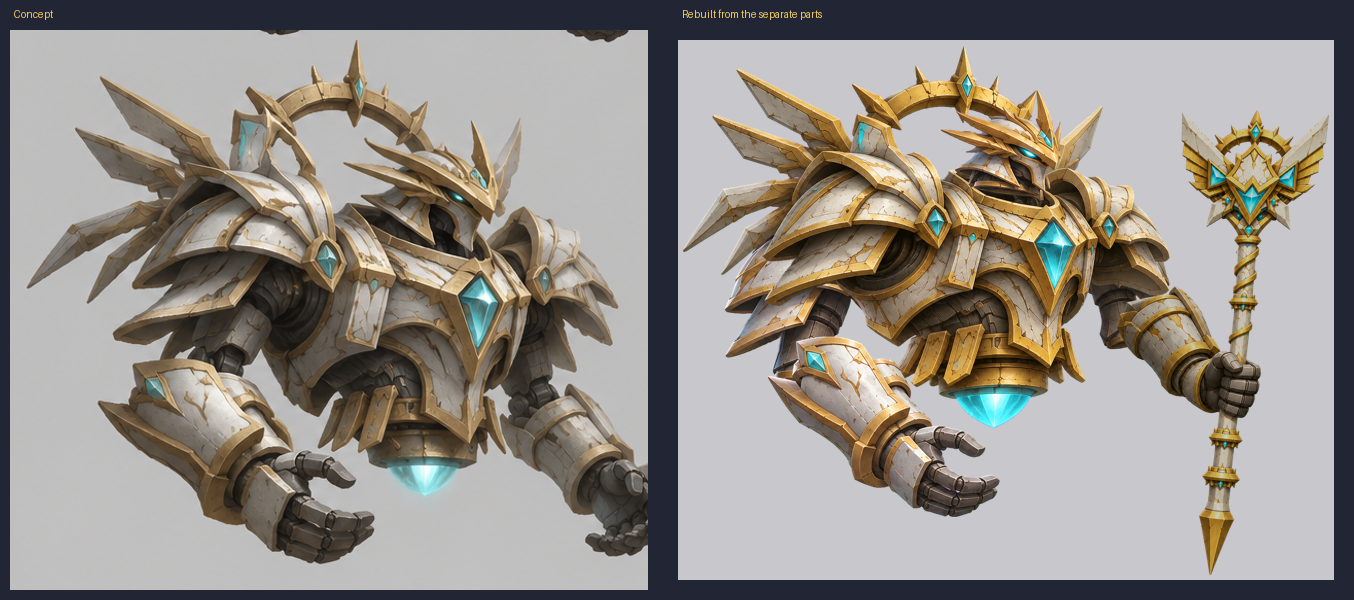
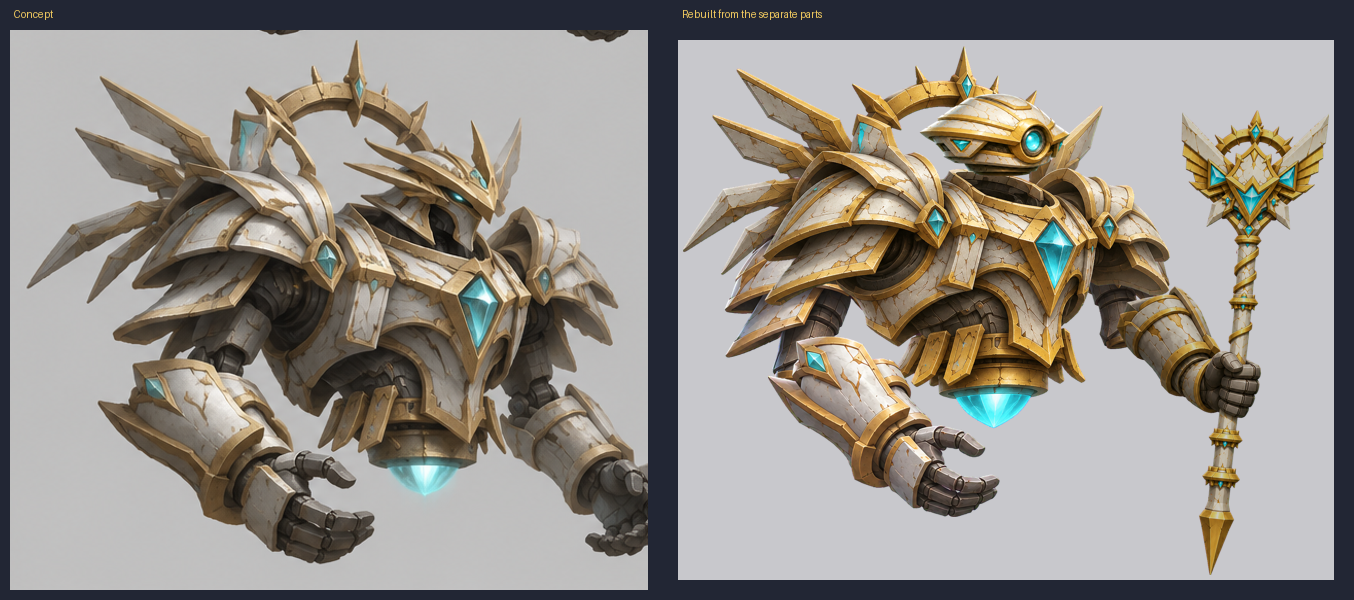
Mecha: final head (round flat dome, one centre eye, fin removed)
Claude-Session: https://claude.ai/code/session_01JamU3DGA95eo1q8PxeEFBV

Changed region(s): [[0.6824, 0.15, 0.8065, 0.33]]

diff --git a/dev/mecha/assemble_mecha2.py b/dev/mecha/assemble_mecha2.py
@@ -14,14 +14,14 @@ def key(a):
 S = key(np.asarray(Image.open(D + "mecha_parts_v2.png").convert("RGB")))
 ST = key(np.asarray(Image.open(D + "mecha_staff_v1.png").convert("RGB")))
 SA = key(np.asarray(Image.open(D + "mecha_staffarm_v1.png").convert("RGB")))   # v6: forearm + fist + staff as one piece (staff drawn into the real hand)
-HD = key(np.asarray(Image.open(D + "mecha_heads_v2.png").convert("RGB")))   # v8 head options: round flat dome, one centre eye (Harley: less humanoid)
+HD = key(np.asarray(Image.open(D + "mecha_head_final.png").convert("RGB")))   # v9 head: Harley's pick (round flat dome, one centre eye, no fin)
 ST2 = key(np.asarray(Image.open(D + "mecha_staff_v2.png").convert("RGB")))   # v5 staff: longer, fist low, 3/4 fist   # staff + fist, far gauntlet (no hand)
 T2 = key(np.asarray(Image.open(D + "mecha_torso_v2.png").convert("RGB")))   # v3 torso (Harley: bigger, huge shoulders like the concept)
 # boxes and anchor points (sheet px)
 P = {"torso": (401, 254, 1131, 938), "head": (706, 17, 963, 244), "nUp": (47, 262, 339, 617), "nFo": (34, 644, 423, 947), "fUp": (1224, 315, 1428, 616), "fFo": (1225, 655, 1452, 936)}
 A = {"neck": (848, 492), "shN": (612, 636), "shF": (1062, 596), "headB": (838, 236),
      "nUp_sh": (232, 385), "nUp_el": (195, 600), "nFo_el": (98, 690), "fUp_sh": (1318, 400), "fUp_el": (1322, 602), "fFo_el": (1268, 698)}
-C = {"head2": None, "h2W": 205, "h2Dy": 22, "staffArm": 1, "saS": 0.6, "saAnchor": [232, 700], "saDx": 8, "saDy": -6, "staff": 1, "gRot": -70, "gS": 0.78, "stS": 0.82, "stRot": 0, "torso2": 1, "ts": 0.74, "gapHead2": -10, "gapHead": -34, "gapEl": [10, -36], "foScale": 1.15, "far": 0.85, "farDark": 0.8, "rotNUp": 0, "rotNFo": 0, "rotFUp": 0, "rotFFo": 0}
+C = {"head2": [408, 329, 1124, 721], "h2W": 290, "h2Dy": -22, "staffArm": 1, "saS": 0.6, "saAnchor": [232, 700], "saDx": 8, "saDy": -6, "staff": 1, "gRot": -70, "gS": 0.78, "stS": 0.82, "stRot": 0, "torso2": 1, "ts": 0.74, "gapHead2": -10, "gapHead": -34, "gapEl": [10, -36], "foScale": 1.15, "far": 0.85, "farDark": 0.8, "rotNUp": 0, "rotNFo": 0, "rotFUp": 0, "rotFFo": 0}
 if len(sys.argv) > 2: C.update(json.loads(sys.argv[2]))
 W, H = 1700, 1400; cv = Image.new("RGBA", (W, H)); O = (450, 300)   # torso offset on the canvas
 def crop(n):
